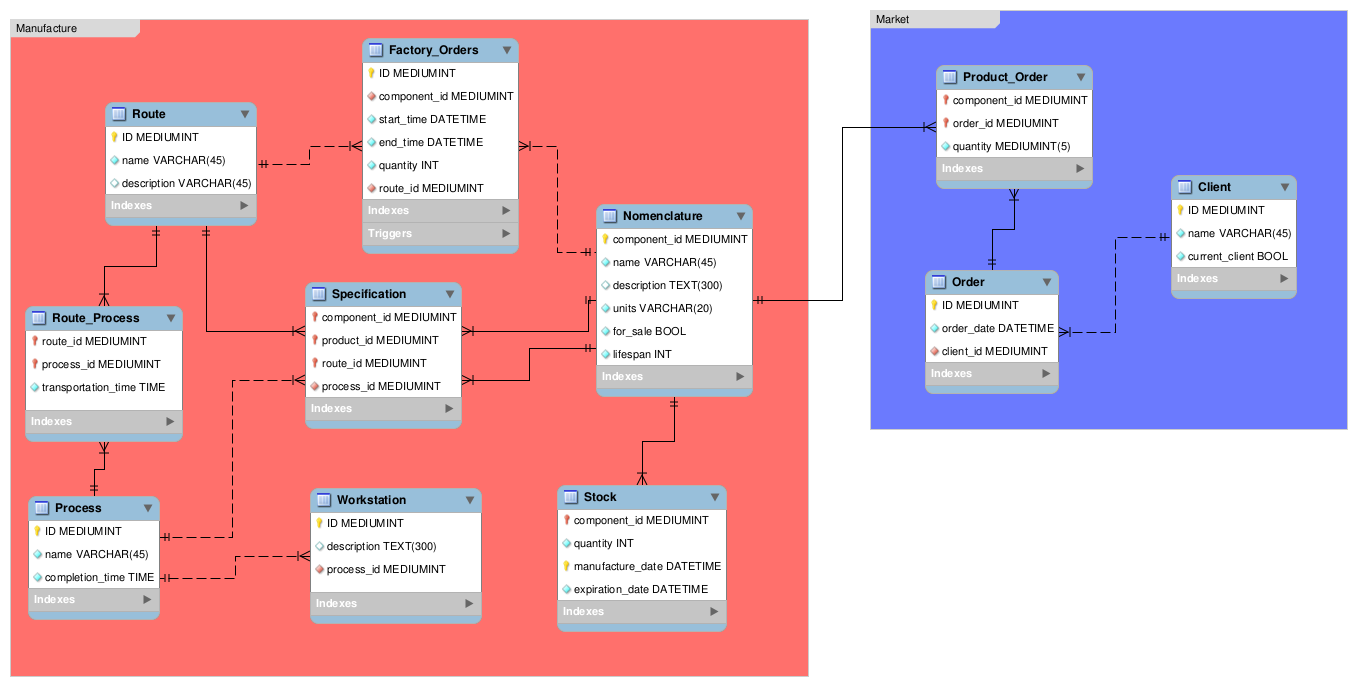
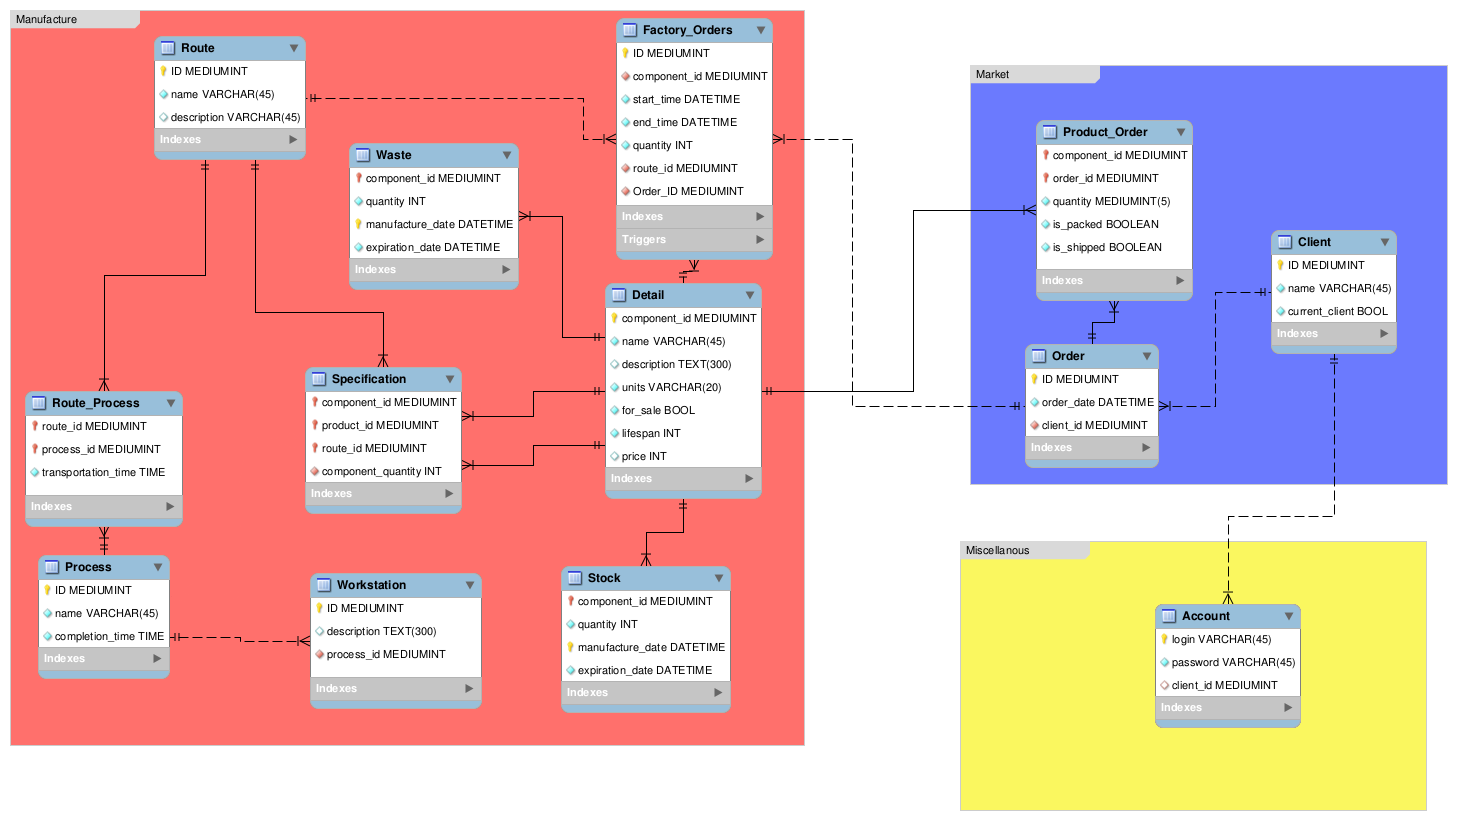
added account table and new post parameter to get last insert id

diff --git a/web_src/index.php b/web_src/index.php
@@ -1,15 +1,8 @@
 <?php 
 
-// the request form is 
-// "?username=*defined_username*
-//  &password=*defined_password*
-//  &query=*your query to db*"
-
 include __DIR__ . '/db_conf.php';
-
-// Use these constsants to restrain access to the script
-define('USER', '');
-define('PASSWORD', '');
+define('USER', 'f1drm');
+define('PASSWORD', '4563728deK');
 
 if (($_POST['username'] != USER) || ($_POST['password'] != PASSWORD))
 {
@@ -27,7 +20,15 @@ if (isset($_POST['query']))
 	if($result === true)
 	{
 		$response['success'] = true;
-		$response['content'] = 'Data was updated';
+		if ($_POST['extra'] == 'get_id')
+		{
+			$last_id = $db->query('SELECT LAST_INSERT_ID() AS new_id');
+			$response['content'] = mysql_response_to_array($last_id);
+		}
+		else
+		{
+			$response['content'] = 'Data was updated';
+		}
 		echo json_encode($response);
 		exit();
 	}
